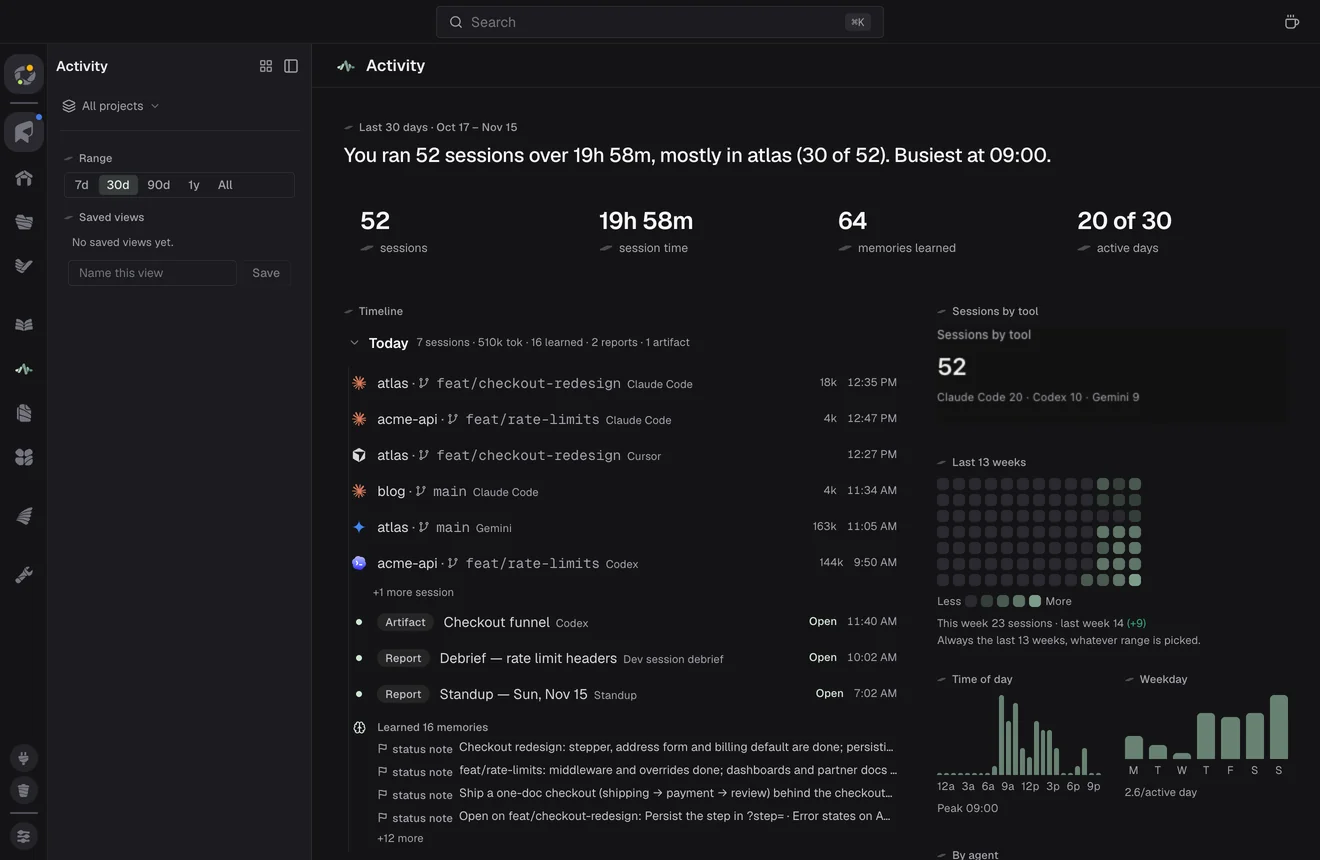
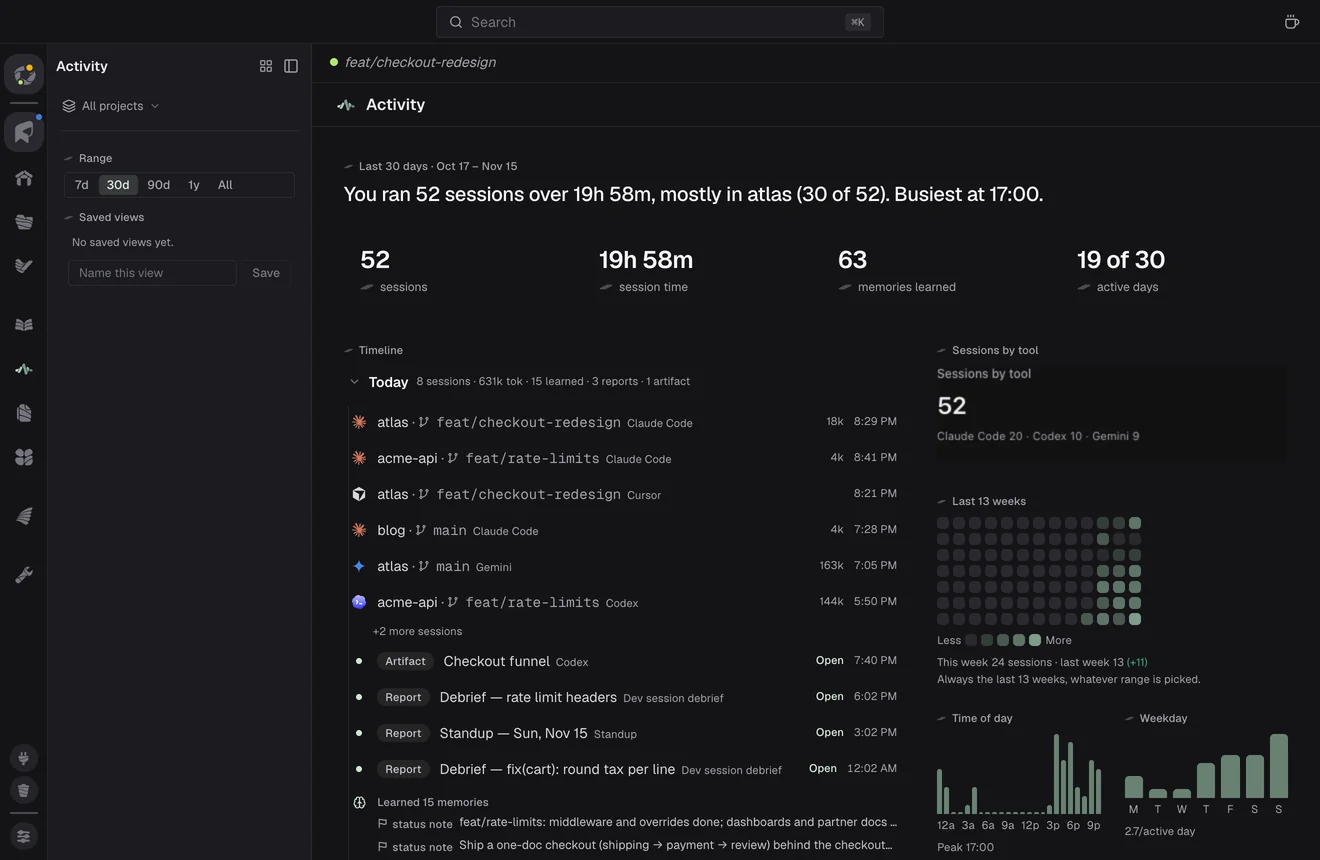
Play the hero from the landing page's shots, which every release refreshes
The hero's five frames were hand captures in assets/demo from 2026-11-08,
outside the tour refresh, so the film showed a week-old Slate while the
tour and the shots below it were current. The film now plays
assets/shots/session, sessions, home, memory and activity, which
`yarn infra docs-site tour` recaptures and re-stamps on every release.
session.webp is new (one Claude Code session open in Atlas) and activity
gains its 2x copy; assets/demo is gone.

The frame takes the shots' 1320 x 860 shape, the Memory zoom moves onto
the map, and the captions no longer quote counts the seed does not have
("six memories", "three sessions").

diff --git a/index.html b/index.html
@@ -26,7 +26,7 @@
 <link rel="stylesheet" href="site/css/base.css?v=20261108b">
 <link rel="stylesheet" href="site/css/layout.css?v=20261108b">
 <link rel="stylesheet" href="site/css/components.css?v=20261108b">
-<link rel="stylesheet" href="site/css/home.css?v=20261108b">
+<link rel="stylesheet" href="site/css/home.css?v=20261115h">
 
 <script>
   // Before first paint, never after: a theme applied later is a flash on every page.
@@ -123,11 +123,11 @@
         <figure class="film" id="stage">
           <div class="film-bar"><i></i><i></i><i></i><span class="film-tag" id="tag"><b id="day"></b><span id="mode"></span></span></div>
           <div class="film-view">
-            <img class="film-shot" src="assets/demo/s1.jpg" width="1600" height="940" alt="Slate's Sessions place: a Claude Code session working on its branch, its terminal in the middle and its environment, progress and links on the right" data-z="1.08" data-o="0% 15%">
-            <img class="film-shot" src="assets/demo/s2.jpg" width="1600" height="940" alt="Slate's Sessions place: two live sessions in two projects, one needing you and one working, listed and drawn as a map" data-z="1.15" data-o="0% 40%">
-            <img class="film-shot" src="assets/demo/s3.jpg" width="1600" height="940" alt="Slate's Home: one thing needs you, a session's question shown first with Open session" data-z="1.4" data-o="50% 38%">
-            <img class="film-shot" src="assets/demo/s4.jpg" width="1600" height="940" alt="Slate's Memory: six memories, including Use pnpm in Atlas, not npm, listed by project beside a map" data-z="1.75" data-o="6% 58%">
-            <img class="film-shot" src="assets/demo/s5.jpg" width="1600" height="940" alt="Slate's Activity: three sessions across Claude Code and Codex over 1h 30m, and the memory they learned" data-z="1.45" data-o="25% 40%">
+            <img class="film-shot" src="assets/shots/session.webp?v=202611151723" srcset="assets/shots/session-1x.webp?v=202611151723 1320w, assets/shots/session.webp?v=202611151723 2640w" sizes="(min-width: 1180px) 560px, 100vw" width="1320" height="860" alt="Slate's Sessions place: a Claude Code session working in Atlas, open beside the list of live sessions" data-z="1.08" data-o="0% 15%">
+            <img class="film-shot" src="assets/shots/sessions.webp?v=202611151723" srcset="assets/shots/sessions-1x.webp?v=202611151723 1320w, assets/shots/sessions.webp?v=202611151723 2640w" sizes="(min-width: 1180px) 560px, 100vw" width="1320" height="860" alt="Slate's Sessions place: every live session on this Mac, grouped by project beside a map" data-z="1.15" data-o="0% 40%">
+            <img class="film-shot" src="assets/shots/home.webp?v=202611151723" srcset="assets/shots/home-1x.webp?v=202611151723 1320w, assets/shots/home.webp?v=202611151723 2640w" sizes="(min-width: 1180px) 560px, 100vw" width="1320" height="860" alt="Slate's Home: what needs you first, then today's work" data-z="1.4" data-o="50% 38%">
+            <img class="film-shot" src="assets/shots/memory.webp?v=202611151723" srcset="assets/shots/memory-1x.webp?v=202611151723 1320w, assets/shots/memory.webp?v=202611151723 2640w" sizes="(min-width: 1180px) 560px, 100vw" width="1320" height="860" alt="Slate's Memory: the memories every agent recalls, Use pnpm in Atlas, not npm among them" data-z="1.4" data-o="60% 50%">
+            <img class="film-shot" src="assets/shots/activity.webp?v=202611151723" srcset="assets/shots/activity-1x.webp?v=202611151723 1320w, assets/shots/activity.webp?v=202611151723 2640w" sizes="(min-width: 1180px) 560px, 100vw" width="1320" height="860" alt="Slate's Activity: sessions across Claude Code and Codex, and what they learned" data-z="1.45" data-o="25% 40%">
           </div>
           <figcaption class="film-cap"><p class="film-story" id="cap"></p><p class="film-real" id="real"></p></figcaption>
         </figure>
@@ -583,6 +583,6 @@ shasum -a 256 -c SHASUMS256.txt</pre>
 </footer>
 
 <script type="module" src="site/js/home.js?v=202611151723"></script>
-<script src="site/js/moment.js?v=202611081400"></script>
+<script src="site/js/moment.js?v=202611152330"></script>
 </body>
 </html>

diff --git a/site/js/moment.js b/site/js/moment.js
@@ -1,6 +1,6 @@
-/* The hero film: one fixed story told over five real screens of Slate (Mint captures of the
- * running app, never redrawn). One requestAnimationFrame loop drives everything from a
- * virtual clock that stops while the film is hovered or the tab is hidden:
+/* The hero film: one fixed story told over five real screens of Slate (landing-page shots the
+ * tour refresh captures from the running app, never redrawn). One requestAnimationFrame loop
+ * drives everything from a virtual clock that stops while the film is hovered or the tab is hidden:
  *   - each screen is its own stacked layer; only opacity and transform change;
  *   - a layer's drift (a slow zoom toward its region) runs on the layer's own clock from the
  *     moment it starts to fade in until it has faded out, so motion never restarts on screen;
@@ -10,7 +10,7 @@
 const SCENES = [
   { day: "Monday", mode: "Without Slate",
     story: "You tell Claude Code: \u201cUse pnpm in Atlas, not npm.\u201d It says it got it.",
-    real: "In Slate: the Claude Code session, live, with its terminal, progress and links." },
+    real: "In Slate: the Claude Code session working in Atlas, live, with its progress and context." },
   { day: "Tuesday", mode: "Without Slate",
     story: "Codex starts fresh in Atlas. It never heard it.",
     real: "In Slate: every live session on this Mac, by project. Amber needs you, lime is working." },
@@ -19,10 +19,10 @@ const SCENES = [
     real: "In Slate: Home puts the session that is asking you something first." },
   { day: "Thursday", mode: "With Slate",
     story: "With Slate, it is saved once, as a memory.",
-    real: "In Slate: Memory. \u201cUse pnpm in Atlas, not npm\u201d is one of six memories every agent can recall." },
+    real: "In Slate: Memory. Every project's memories, \u201cUse pnpm in Atlas, not npm\u201d among them, for every agent to recall." },
   { day: "Every day after", mode: "With Slate",
     story: "Claude Code and Codex both start with it. Explained once.",
-    real: "In Slate: Activity. Three sessions across Claude Code and Codex, and the memory they learned." }
+    real: "In Slate: Activity. Every session across Claude Code, Codex and the rest, and the memories they learned." }
 ];
 const HOLD = 4500;   // how long a scene owns the frame
 const FADE = 1200;   // crossfade length

diff --git a/site/css/home.css b/site/css/home.css
@@ -1045,7 +1045,7 @@ h2.mid { font-size: clamp(26px, 3.2vw, 34px); line-height: 1.12; margin: 0 0 16p
 .film-tag { margin-left: auto; display: inline-flex; gap: 8px; align-items: center; font: 12px var(--mono); color: var(--muted); }
 .film-tag b { color: rgb(var(--text)); font-weight: 600; }
 .film.with .film-tag span { color: var(--brand); }
-.film-view { position: relative; aspect-ratio: 1600 / 940; overflow: hidden; background: #141416; }
+.film-view { position: relative; aspect-ratio: 1320 / 860; overflow: hidden; background: #141416; }
 .film-shot { position: absolute; inset: 0; width: 100%; height: 100%; object-fit: cover; opacity: 0; transform: translate3d(0,0,0) scale(1); will-change: transform, opacity; backface-visibility: hidden; }
 .film-shot:first-child { opacity: 1; }
 .film-cap { display: grid; gap: 4px; padding: 14px 16px 16px; border-top: 1px solid var(--line); background: var(--panel); min-height: 92px; }
